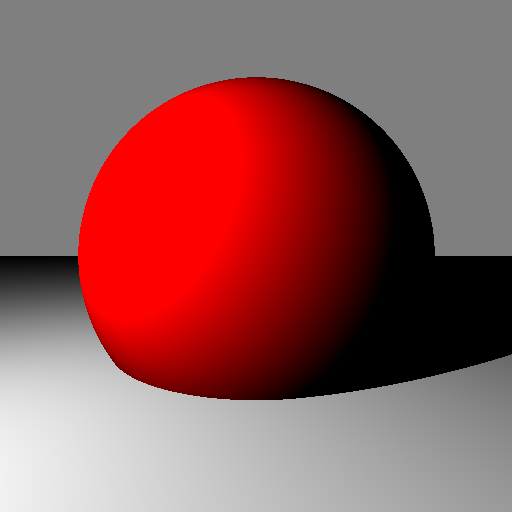
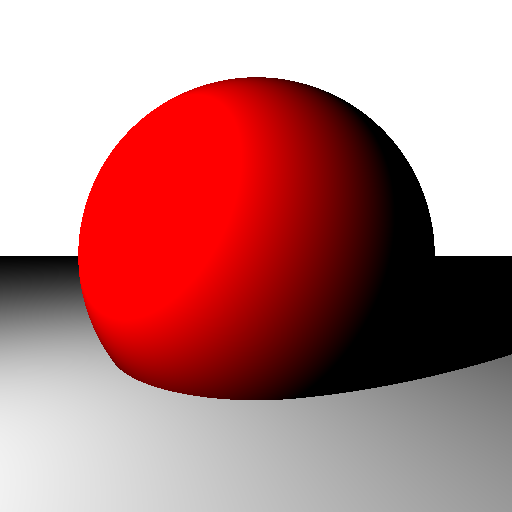
tp2: add srgb

diff --git a/projets/tp2.cpp b/projets/tp2.cpp
@@ -145,7 +145,7 @@ Color compute_lr(Point p, Material material, Color emission, Vector n, Point p_l
     };
 
     float cos_theta = std::max(float(0), dot(normalize(n), normalize(shadow_v)));
-    Color color = material.diffuse / M_PI * V * emission * cos_theta;
+    Color color = { material.diffuse / M_PI * V * emission * cos_theta , 1};
     return color;
 }
 
@@ -157,7 +157,7 @@ int main( )
     Scene scene;
     scene.plans.push_back({Point(0,-1,0),Vector(0,1,0), Material(Color(0.7)) });
     scene.spheres.push_back({Point(0,0,-3.5),2, Material(Color(Red())) });
-    scene.bg_color = Color(0.5);
+    scene.bg_color = Color(1);
     
     for(int py= 0; py < image.height(); py++)
     for(int px= 0; px < image.width(); px++)
@@ -180,9 +180,9 @@ int main( )
         
         if (hit.t < INFINITY) {
             Color l_r = compute_lr(hit.p, hit.material, sun.color, hit.n, sun.p, scene);
-            image(px, py) = Color(l_r, 1);
+            image(px, py) = srgb(l_r);
         } else {
-            image(px, py) = scene.bg_color;  // Background color
+            image(px, py) = scene.bg_color;
         }
     }
     
